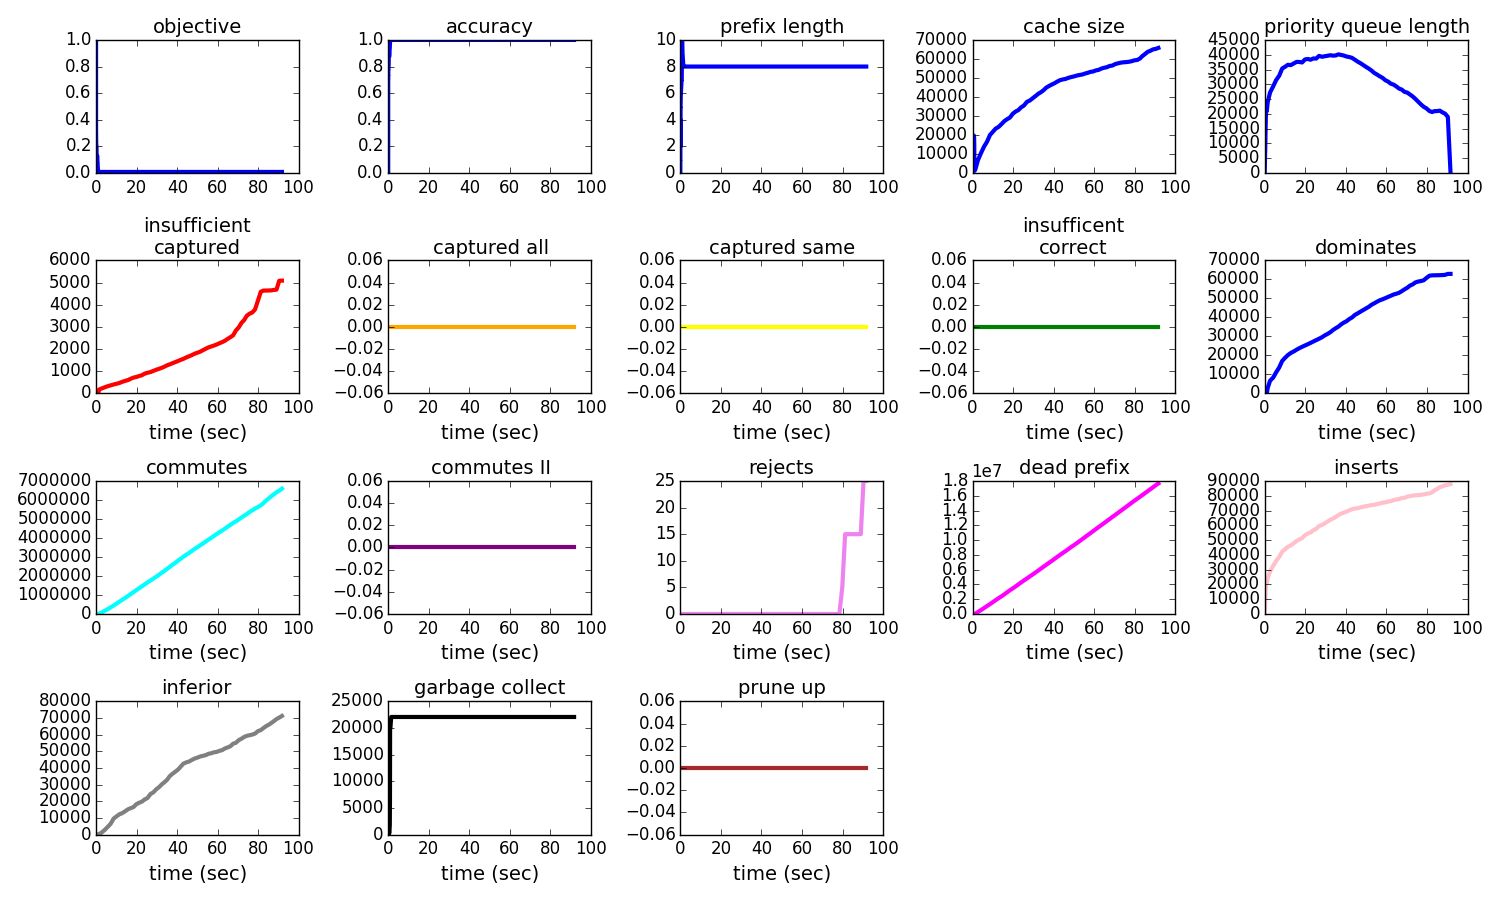
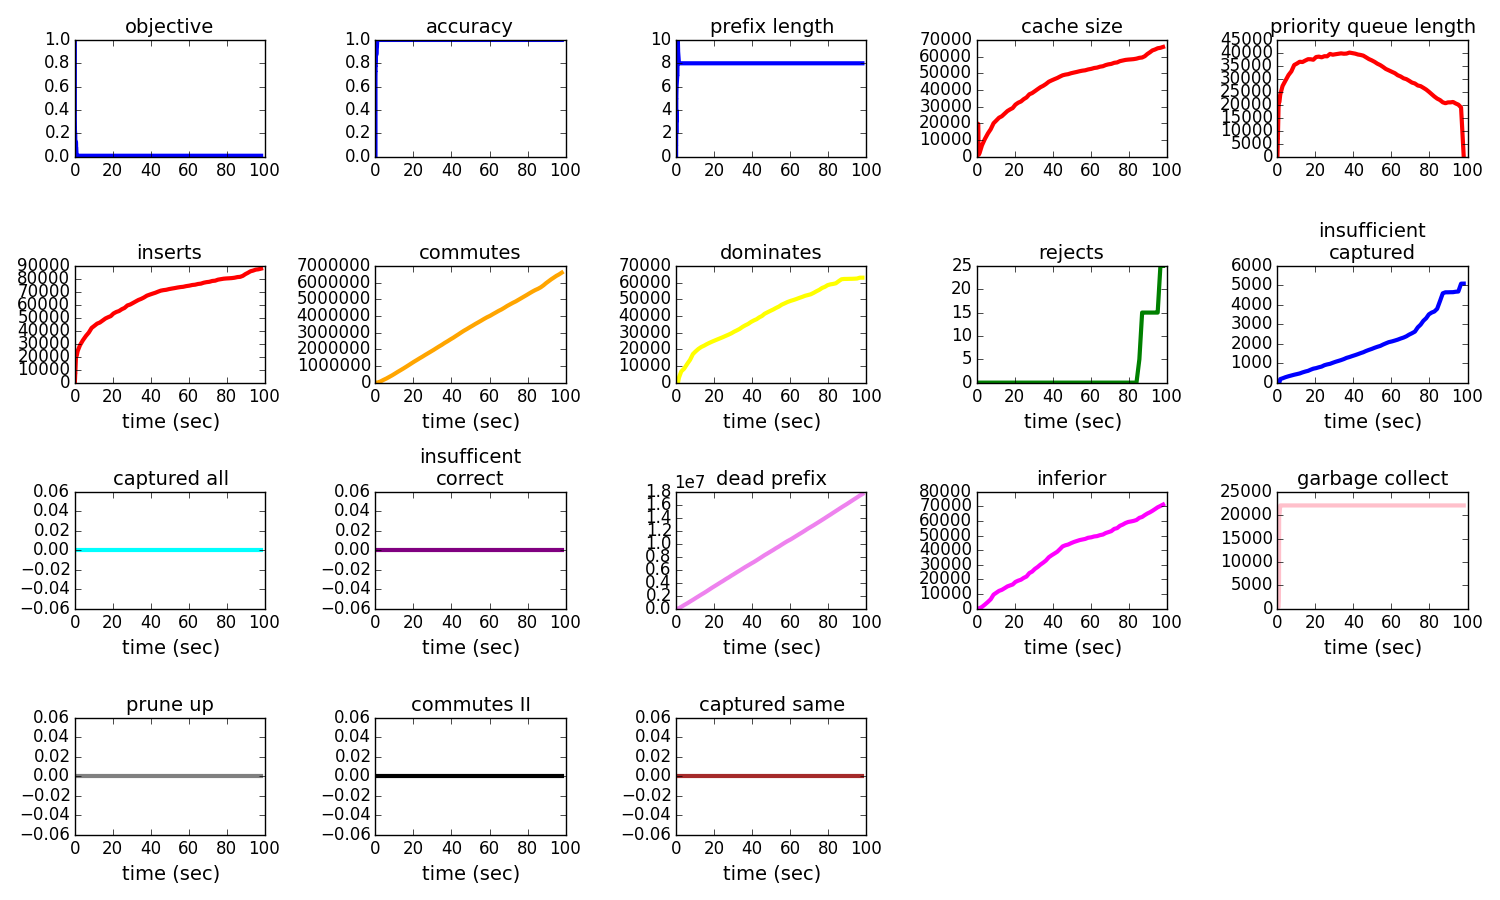
Change order of figs to match algorithm

diff --git a/code/figs.py b/code/figs.py
@@ -9,14 +9,14 @@ def viz_log(metadata=None, din=None, dout=None, delimiter=',', lw=3, fs=14):
     fin = os.path.join(din, '%s.txt' % metadata)
     x = tb.tabarray(SVfile=fin, delimiter=delimiter)
     t = x['seconds']
-    names = ['cache_size', 'priority_queue_length',
-             'captured_small', 'captured_all', 'captured_same', 'insufficient',
-             'dominates', 'commutes', 'commutes_II', 'rejects', 'dead_prefix',
-             'inserts', 'inferior', 'garbage_collect', 'prune_up']
+    names = ['cache_size', 'priority_queue_length', 'inserts',
+             'commutes', 'dominates', 'rejects', 'captured_small',
+             'captured_all', 'insufficient', 'dead_prefix', 'inferior',
+             'garbage_collect', 'prune_up', 'commutes_II', 'captured_same']
     rename_dict = {'captured_small': 'insufficient\ncaptured', 'insufficient': 'insufficent\ncorrect'}
     display_names = [rename_dict[n] if n in rename_dict else n for n in names]
     display_names = [n.replace('_', ' ') for n in display_names]
-    color_vec = ['blue', 'blue', 'red', 'orange', 'yellow', 'green', 'blue',
+    color_vec = ['red', 'red', 'red', 'orange', 'yellow', 'green', 'blue',
                  'cyan', 'purple', 'violet', 'magenta', 'pink', 'gray',
                  'black', 'brown']
     plt.ion()
